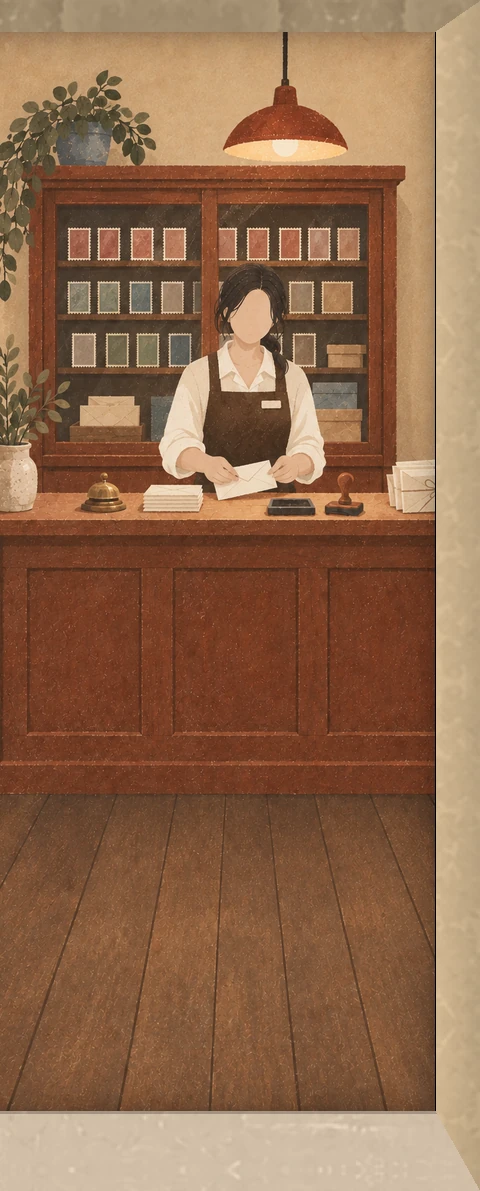
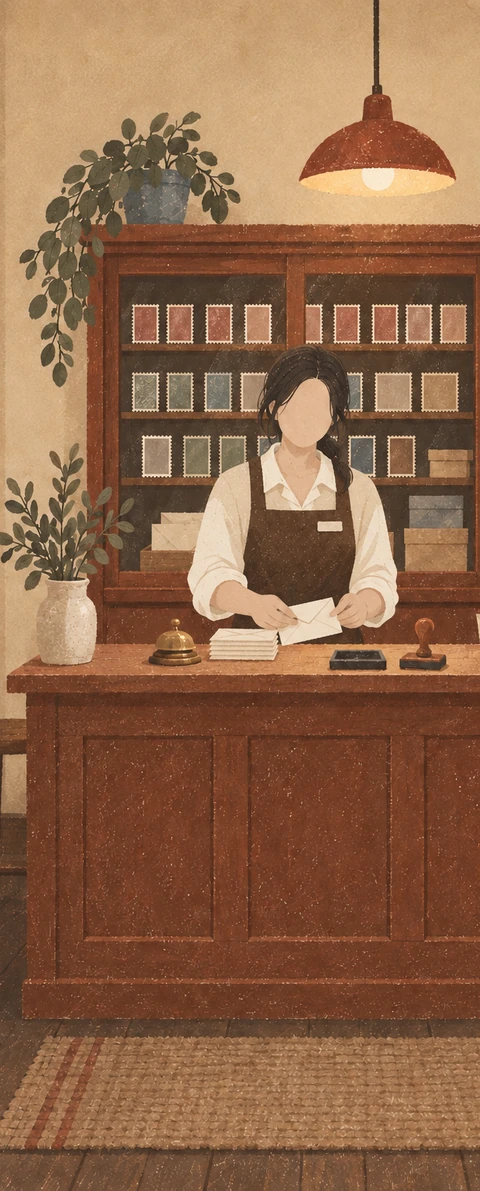
Door: the room flat behind the door again; a rim on the door's own edge
The user preferred the room straight behind the doorway, as before, to the
doorway with head, jamb and step (the door's "paper" look was the door, not
the doorway). Back to the first room drawing, cut to the leaf's shape, and
the eye at the door's middle. The leaf still swings alone and the wheel
stays in front. The latch edge, out of sight on a door that opens away,
now catches the room's light as a thin warm rim so the slab reads thick.

Claude-Session: https://claude.ai/code/session_01RCDJfz583Au16AwyawzMBo

diff --git a/web/index.html b/web/index.html
@@ -59,16 +59,14 @@
 .ld-room { background: #D9934E radial-gradient(120% 90% at 50% 100%, #F6CB86, #D9934E 70%, #B9743A) center / cover no-repeat; }
 /* the door itself: a slab with some thickness, turning inward on hinges at its back, left edge. Its face is cut from
    the picture; as it opens, its hinge-side edge turns towards you (the user found a flat door read as paper). The
-   thickness (--dt) and the eye's distance (--dp) follow the door's size (loader.js), so it turns alike on every screen.
-   The eye is on the hinge line, 28% down the door, 3.2 door-widths off: the room behind (scene.py doorway()) is drawn
-   from that same eye, with the doorway's head, far jamb and step round it */
+   thickness (--dt) and the eye's distance (--dp) follow the door's size (loader.js), so it turns alike on every screen */
 /* (it darkens as it turns away from the light through a black sheet on it fading in, not a brightness filter: a filter
    under the iris's clip had the whole screen rasterised again on every frame) */
 /* (at rest the same kind of transform as open, so every browser turns it on the compositor: function by function) */
 /* (no preserve-3d: WebKit turned a 3D-nested slab the wrong way. The face and the edge are flat pieces, each carrying
    the whole placement, the same eye and the same hinge, so they turn as one) */
 .ld-door { --a: 0deg; --dt: 4px; --dtn: -4px; --dp: 700px; }
-.ld-door-face, .ld-door-edge { position: absolute; top: 0; height: 100%; transform-origin: 0 28% var(--dtn);
+.ld-door-face, .ld-door-edge { position: absolute; top: 0; height: 100%; transform-origin: 0 50% var(--dtn);
   transition: transform .75s cubic-bezier(.45,0,.2,1); will-change: transform; }
 .ld-door-face { left: 0; width: 100%; background-repeat: no-repeat; transform: perspective(var(--dp)) rotateY(var(--a)); }
 .ld-door-face::after { content: ""; position: absolute; inset: 0; background: #000; opacity: 0; transition: opacity .75s ease; will-change: opacity; }
@@ -79,6 +77,11 @@
   background: linear-gradient(90deg, #8F4E37, #7A4130); }
 #loader.opening .ld-door { --a: 72deg; }
 #loader.opening .ld-door-face::after { opacity: .28; }
+/* the latch side's edge faces into the lit room as the door swings in: its corner catches that light, a thin warm rim
+   that shows the slab's thickness where the edge itself is out of sight */
+.ld-door-face::before { content: ""; position: absolute; top: 0; bottom: 0; right: 0; width: 4%; z-index: 1;
+  background: linear-gradient(90deg, rgba(255,214,150,0), rgba(255,226,172,.9) 55%, rgba(255,236,196,.95)); opacity: 0; transition: opacity .75s ease; will-change: opacity; }
+#loader.opening .ld-door-face::before { opacity: 1; }
 /* open for business: the lamps come on inside. The door's glass (scene/glass.webp, cut from the picture with its brush
    strokes) glows warm from within, and turns with the door; a soft halo round it, a little light on the paper at its
    foot. (A lit line along the door's edge read as its frame glowing: the door is painted shut) */

diff --git a/dailystamp/scene.py b/dailystamp/scene.py
@@ -73,25 +73,17 @@ resting on the empty paper with no shadow:
 and at the far right, well apart, one small closed white envelope lying flat, seen from the front, with a tiny brick-red
 stamp in its corner.
 Nothing else in the picture."""),
-    # (the second drawing of the room: the first was seen from its middle, with a rug far off at the foot, so through
-    # the doorway its floor met the doorstep like a wall. This one is seen from the doorstep, the floor running in from
-    # under your feet; the first is kept in scene/_work/room.v1.raw.png)
-    "room": ("portrait, 1024x1536", ["_work/room.v1.raw.png", "cover.raw.png"], """The inside of the small post office whose
-front door is the SECOND attached picture, as you see it standing on the doorstep of that door, looking straight in.
-Keep everything in the room exactly as in the FIRST attached picture: the same glass-fronted wooden cabinet with its
-rows of stamps, the same faceless clerk (dark hair tied back, white shirt, dark brown apron) behind the same wooden
-counter sorting a letter, the small brass bell, the ink pad and the rubber stamp on it, the same round clock with no
-numerals, the same brick-red pendant lamp, the same plants, the same warm light. Change only where we stand:
-- we stand just outside the door, eyes at standing height: the eye level (horizon) is about 28% down from the top of
-  the picture, so we look slightly down onto the counter top and the floor
-- the floor is warm brown wooden floorboards running straight away from us, their joins converging to one point on
-  the eye level at 60% of the picture's width; the boards come right up to the bottom edge of the picture, where they
-  are closest and widest; NO rug, nothing lying on the near floor
-- the counter stands a few steps in: its top at about 42% down, its foot on the floor at about 66% down; the clerk and
-  the middle of the counter sit between 45% and 75% of the picture's width
-- the room fills the whole picture: no door frame, no doorway, no wall edges round the picture
-Composition: the picture will be shown cropped to a tall narrow doorway (its middle 60% of the width), and the left
-third of that is hidden by the open door, so nothing that matters is left of 40% of the width."""),
+    "room": ("portrait, 1024x1536", ["ref-room-5.png", "ref-room-1.png", "cover.raw.png"], """The inside of the small post
+office whose front door is the THIRD attached picture, seen at eye height straight through that open door.
+Redraw the FIRST attached picture almost exactly as it is: the same glass-fronted wooden cabinet with its rows of stamps,
+the same wooden counter with the small brass bell, the ink pad and the rubber stamp on it, the same round clock with no
+numerals, the same brick-red pendant lamp, the same plants, the same rug and floor. Add only this:
+- the clerk from the SECOND attached picture (faceless, dark hair tied back, white shirt, dark brown apron) stands
+  behind the counter in front of the cabinet, seen from the waist up (the counter hides the rest), both hands on the
+  counter sorting a letter
+Composition: the picture will be shown cropped to a tall narrow doorway whose left quarter is hidden by the open door,
+so the clerk and the middle of the counter sit between 45% and 75% of the picture's width, and everything that
+matters stays between 15% and 90% of its height."""),
 }
 STYLES = {"room": ROOM_STYLE}
 
@@ -121,70 +113,10 @@ SPOTS_RAW = {
 }
 
 
-# the room is cut to the doorway's shape, full height, placed so ROOM_X (the middle of the counter and the clerk, px of
-# the raw drawing) sits ROOM_AT across it: the open door hides about the doorway's left third
-ROOM_X = 512
-ROOM_AT = 0.5
+# the room is cut to the leaf's shape, full height, placed so ROOM_X (the middle of the counter and the clerk, px of the
+# raw drawing, measured by hand) sits 62% across it: the open door hides about the opening's left quarter
+ROOM_X = 500
 ROOM_W = 480                                               # a phone's doorway is ~222 device px wide, a desktop's ~195 css
-# Seen through the doorway, the room lies beyond the wall's thickness. The eye is where the page's door turns from
-# (web/index.html: the hinge line, EYE_Y down the leaf) at EYE_D leaf-widths off; the wall is WALL_D leaf-widths deep.
-# So the room shows a little smaller inside the opening, and round it you see the doorway's own sides in perspective:
-# its head above, the far jamb on the right (the near one is edge-on from the hinge line), the step's top below.
-EYE_Y, EYE_D, WALL_D = 0.28, 3.2, 0.33
-
-
-def doorway(room: Image.Image, cover: Image.Image) -> Image.Image:
-    """The picture that fills the opening when the door swings: the room, set back by the wall's depth, framed by the
-    doorway's head, far jamb and step, painted with the cover's own wall and step (shaded as they turn from the light)."""
-    lx, ly, lw, lh = SPOTS_RAW["leaf"]
-    W, H = ROOM_W, round(ROOM_W * lh / lw)
-    s = EYE_D / (EYE_D + WALL_D)                            # how much smaller the far side of the doorway looks
-    ey = EYE_Y * H
-    x1, y0, y1 = s * W, ey * (1 - s), ey + s * (H - ey)     # the far side's rectangle (x0 = 0: the eye is on the hinge line)
-    # the room, cut to the opening's shape round ROOM_X, then drawn into the far rectangle
-    w = round(room.height * lw / lh)
-    rx = int(min(max(0, ROOM_X - w * ROOM_AT), room.width - w))
-    inner = room.crop((rx, 0, rx + w, room.height)).resize((round(x1), round(y1 - y0)), Image.LANCZOS)
-    out = Image.new("RGB", (W, H))
-    out.paste(inner, (0, round(y0)))
-    a = np.asarray(out).astype(np.float32)
-    c = cover.convert("RGB")
-    def painted(box, colour_box=None):
-        """A surface in the cover's own paint: the colour of colour_box (or box), with the brush grain of box laid
-        over it, mirrored to fill the picture at the cover's scale (stretching it drew streaks)"""
-        p = np.asarray(c.crop(box)).astype(np.float32)
-        base = np.median(np.asarray(c.crop(colour_box or box)).reshape(-1, 3).astype(np.float32), 0)
-        g = p.mean(-1); g = g - ndimage.gaussian_filter(g, 6)            # the grain alone, round zero
-        k = W / lw                                                        # cover px -> doorway px
-        g = np.asarray(Image.fromarray(g.astype(np.float32), "F").resize((max(1, round(g.shape[1] * k)), max(1, round(g.shape[0] * k))), Image.BILINEAR))
-        reps = (H // g.shape[0] + 2, W // g.shape[1] + 2)
-        g = np.tile(np.block([[g, g[:, ::-1]], [g[::-1], g[::-1, ::-1]]]), (reps[0] // 2 + 1, reps[1] // 2 + 1))[:H, :W]
-        return base[None, None, :] + g[..., None] * grain
-    grain = 0.9
-    wall = painted((920, 400, 990, 540))                    # the stuccoed wall right of the door
-    grain = 0.45
-    step = painted((650, 318, 1000, 366), (lx + 10, ly + lh + 3, lx + lw - 10, ly + lh + 12))   # the step's colour, the lintel's stone grain
-    yy, xx = np.mgrid[0:H, 0:W].astype(np.float32)
-    # which side of the doorway each pixel shows: above the far rectangle the head, right of it the far jamb, below it
-    # the step; in the two right-hand corners the lines from the opening's corners to the far rectangle's split them
-    k = (W - xx) / max(1.0, W - x1)                         # 1 at the far rectangle's side, 0 at the opening's edge
-    head = (yy < y0) & ((xx <= x1) | (yy < y0 * k))
-    sill = (yy > y1) & ((xx <= x1) | (yy > H - (H - y1) * k))
-    jamb = (xx > x1) & ~head & ~sill
-    warm = np.array([1.0, 0.93, 0.82], np.float32)
-    shade_j = (0.80 + 0.12 * (W - xx) / max(1, W - x1))[..., None] * warm   # the far jamb, lit a little more deeper in
-    a = np.where(jamb[..., None], wall * np.clip(shade_j, 0, 1), a)
-    a = np.where(head[..., None], wall * 0.70 * warm, a)
-    a = np.where(sill[..., None], step * 0.96, a)
-    # a soft shadow where the room meets the doorway's sides (the corners the light doesn't reach)
-    dist = np.minimum.reduce([np.where(xx <= x1, x1 - xx, 1e4), np.where(yy >= y0, yy - y0, 1e4), np.where(yy <= y1, y1 - yy, 1e4)])
-    inside = (xx <= x1) & (yy >= y0) & (yy <= y1)
-    ao = np.where(inside, 1 - 0.22 * np.exp(-dist / (0.03 * W)), 1)
-    a = a * ao[..., None]
-    # the step's inner edge, a thin dark line where the floor goes in under the doorway
-    edge = sill & (yy < y1 + 2.2)
-    a[edge] *= 0.78
-    return Image.fromarray(np.clip(a, 0, 255).astype(np.uint8))
 
 
 def raw_path(key: str) -> str:
@@ -354,12 +286,16 @@ def rebuild() -> None:
         entry["catv"] = int(os.path.getmtime(raw_path("cat")))
         print("pieces", [(f["key"], f["w"], f["h"]) for f in files])
     if os.path.exists(raw_path("room")):
-        room = doorway(Image.open(raw_path("room")).convert("RGB"), Image.open(raw_path("cover")))
+        raw = Image.open(raw_path("room")).convert("RGB")
+        dw, dh = SPOTS_RAW["leaf"][2:]
+        w = round(raw.height * dw / dh)
+        x0 = int(min(max(0, ROOM_X - w * 0.62), raw.width - w))
+        room = raw.crop((x0, 0, x0 + w, raw.height)).resize((ROOM_W, round(ROOM_W * raw.height / w)), Image.LANCZOS)
         rp = os.path.join(SCENE_DIR, "room.webp")
         room.save(rp, quality=90, method=6)
         entry["room"] = {"file": "scene/room.webp", "w": room.width, "h": room.height}
         entry["roomv"] = int(os.path.getmtime(rp))
-        print(f"room {room.size}, set in its doorway")
+        print(f"room {room.size} from x {x0}..{x0 + w}")
     with open(os.path.join(SCENE_DIR, "index.json"), "w", encoding="utf-8") as fh:
         json.dump(entry, fh, ensure_ascii=False, indent=2)
 
